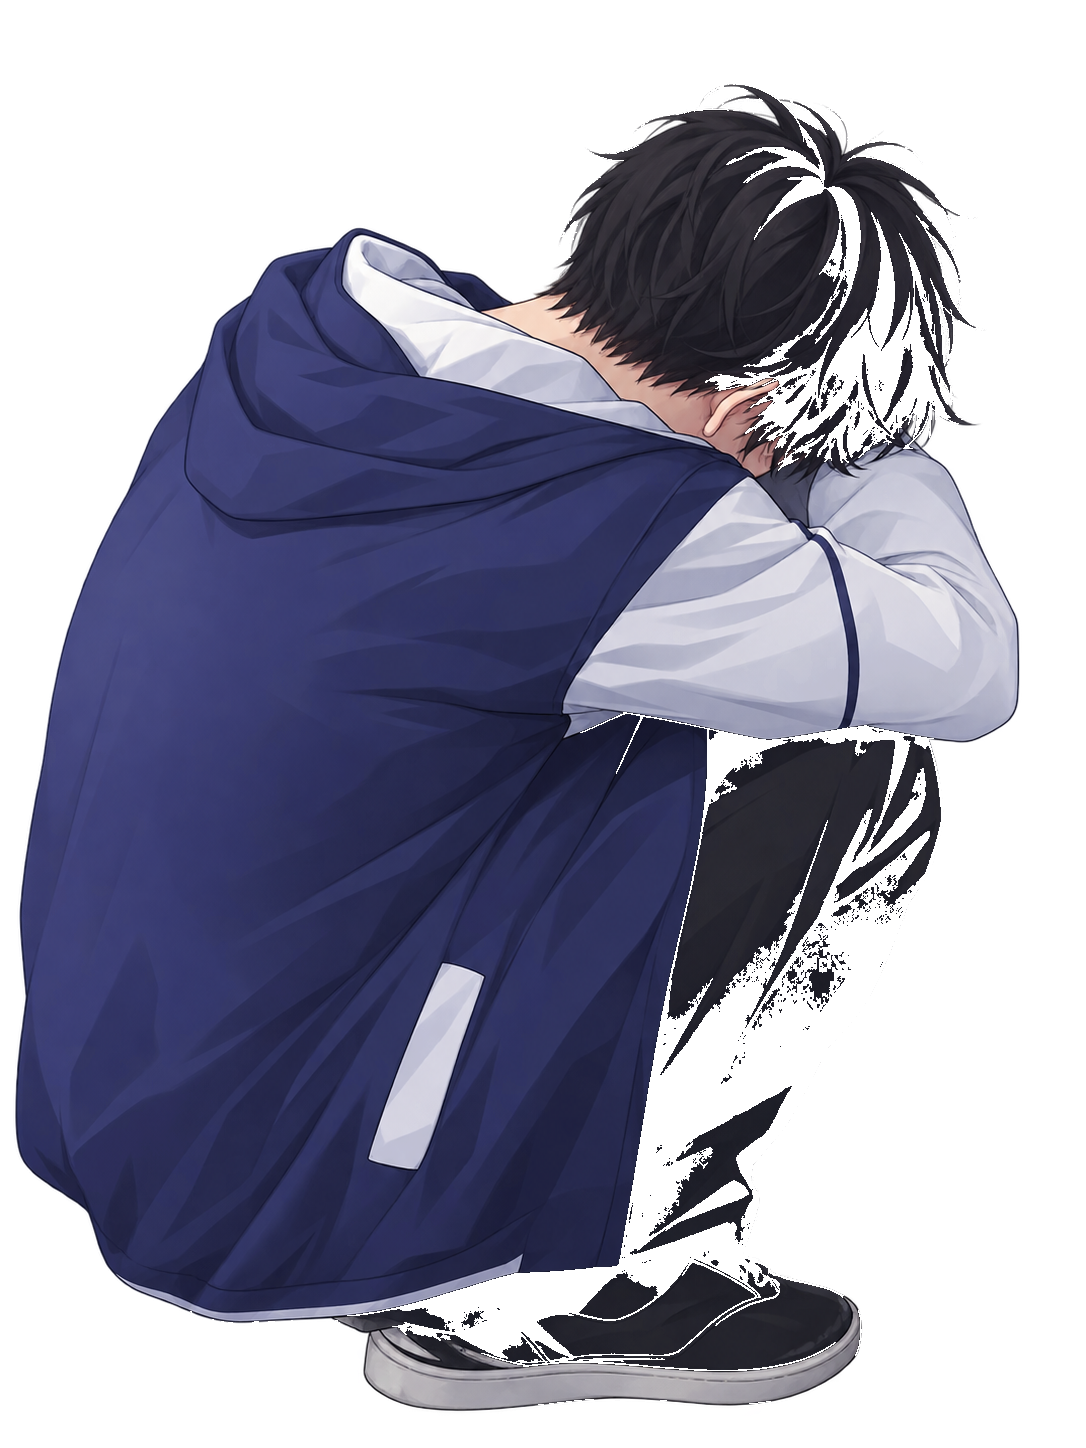
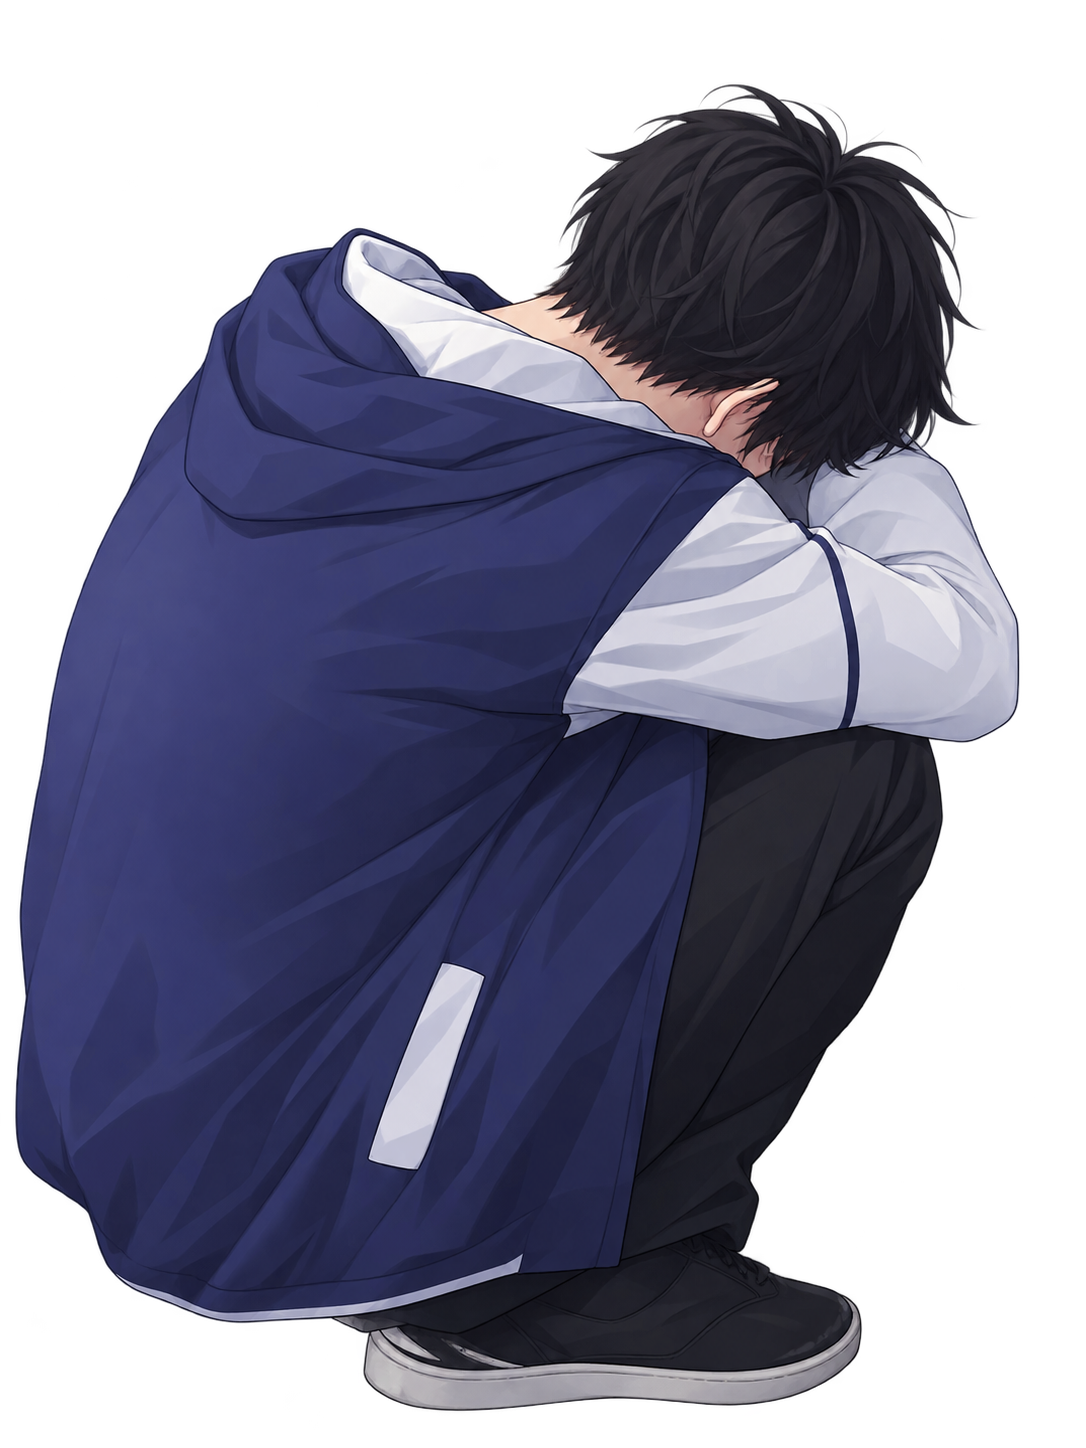
feat: set ghost easter egg chance to 5%, rename to Interactive Story, and add atmospheric dashboard background

Changed region(s): [[0.3646, 0.4972, 0.8812, 0.9634], [0.6381, 0.0622, 0.8812, 0.3419]]

diff --git a/engine.js b/engine.js
@@ -966,6 +966,9 @@ function showTitle() {
   $("#screen-ending").classList.add("hidden");
   $("#screen-title").classList.remove("hidden");
 
+  // Pasang background atmosferik gerbang desa untuk menu utama/dashboard
+  transitionBackground("bg_gerbang_desa");
+
   const endings = getEndingsFound();
   const total = STORY.endingsTotal || 7;
   $("#title-endings").textContent = `Ending ditemukan: ${endings.length}/${total}`;
@@ -1250,8 +1253,8 @@ function updateSecretObstacle(nodeId) {
     return;
   }
 
-  // Peluang 45% muncul di setiap adegan cerita
-  const shouldSpawn = Math.random() < 0.45;
+  // Peluang 5% muncul di setiap adegan cerita (0.05)
+  const shouldSpawn = Math.random() < 0.05;
   if (!shouldSpawn) {
     obstacle.classList.add("hidden");
     return;
@@ -1425,7 +1428,7 @@ function renderCollection() {
         <div class="collection-locked-icon">🔒</div>
         <div class="collection-locked-info">
           <div class="collection-locked-title">??? (Koleksi Rahasia #1 Terkunci)</div>
-          <p class="collection-locked-hint">Ada penampakan gaib rahasia yang tersembunyi di dalam cerita. Temukan benda melayang misterius yang terkadang muncul di sudut adegan saat kamu menjelajahi Desa Melati...</p>
+          <p class="collection-locked-hint">Ada penampakan gaib rahasia yang tersembunyi di dalam cerita. Temukan benda melayang misterius yang sangat langka (peluang 5%) muncul di sudut adegan saat kamu menjelajahi Desa Melati...</p>
         </div>
       </div>`
     }

diff --git a/index.html b/index.html
@@ -3,7 +3,7 @@
 <head>
   <meta charset="UTF-8">
   <meta name="viewport" content="width=device-width, initial-scale=1.0">
-  <title>Desa Melati - Visual Novel Horor</title>
+  <title>Desa Melati - Interactive Story Horor</title>
   <link rel="stylesheet" href="style.css">
 </head>
 <body>
@@ -31,12 +31,12 @@
   <div id="screen-title" class="hidden">
     <div class="title-content">
       <h1 id="game-title">Desa Melati</h1>
-      <p class="title-sub">Interactive Horror Novel · KKN 2008</p>
+      <p class="title-sub">Interactive Story · KKN 2008</p>
       <p id="title-endings">Ending ditemukan: 0/7</p>
       <div class="title-buttons">
         <button id="btn-start" class="btn-primary">Mulai Cerita</button>
         <button id="btn-continue" class="btn-secondary hidden">Lanjutkan</button>
-        <button id="btn-collection" class="btn-secondary">Koleksi <span id="badge-collection" class="collection-badge">0/1</span></button>
+        <button id="btn-collection" class="btn-secondary">Koleksi <span id="badge-collection" class="collection-badge">0/2</span></button>
       </div>
     </div>
   </div>

diff --git a/style.css b/style.css
@@ -55,6 +55,10 @@ body {
   opacity: 1;
 }
 
+#bg-layer-1 {
+  background-image: url("assets/bg_gerbang_desa.png");
+}
+
 #bg-vignette {
   position: absolute;
   top: 0;
@@ -201,12 +205,29 @@ body.fx-glitch #fx-overlay {
   justify-content: center;
   min-height: 100vh;
   text-align: center;
-  padding: 2rem;
+  padding: 1.5rem;
   animation: fadeIn 0.8s ease;
+  background: radial-gradient(circle at center, rgba(0, 0, 0, 0.25) 0%, rgba(5, 5, 10, 0.65) 100%);
 }
 
 .title-content {
-  max-width: 600px;
+  max-width: 620px;
+  width: 92%;
+  padding: 2.8rem 2.2rem;
+  background: radial-gradient(circle at center, rgba(16, 18, 28, 0.78) 0%, rgba(8, 10, 16, 0.88) 100%);
+  backdrop-filter: blur(12px);
+  -webkit-backdrop-filter: blur(12px);
+  border: 1px solid rgba(220, 190, 140, 0.22);
+  border-radius: 28px;
+  box-shadow: 0 20px 60px rgba(0, 0, 0, 0.85), 0 0 40px rgba(220, 40, 40, 0.15);
+  animation: popInCard 0.7s cubic-bezier(0.34, 1.56, 0.64, 1);
+}
+
+@media (max-width: 600px) {
+  .title-content {
+    padding: 2.2rem 1.4rem;
+    border-radius: 20px;
+  }
 }
 
 #game-title {
